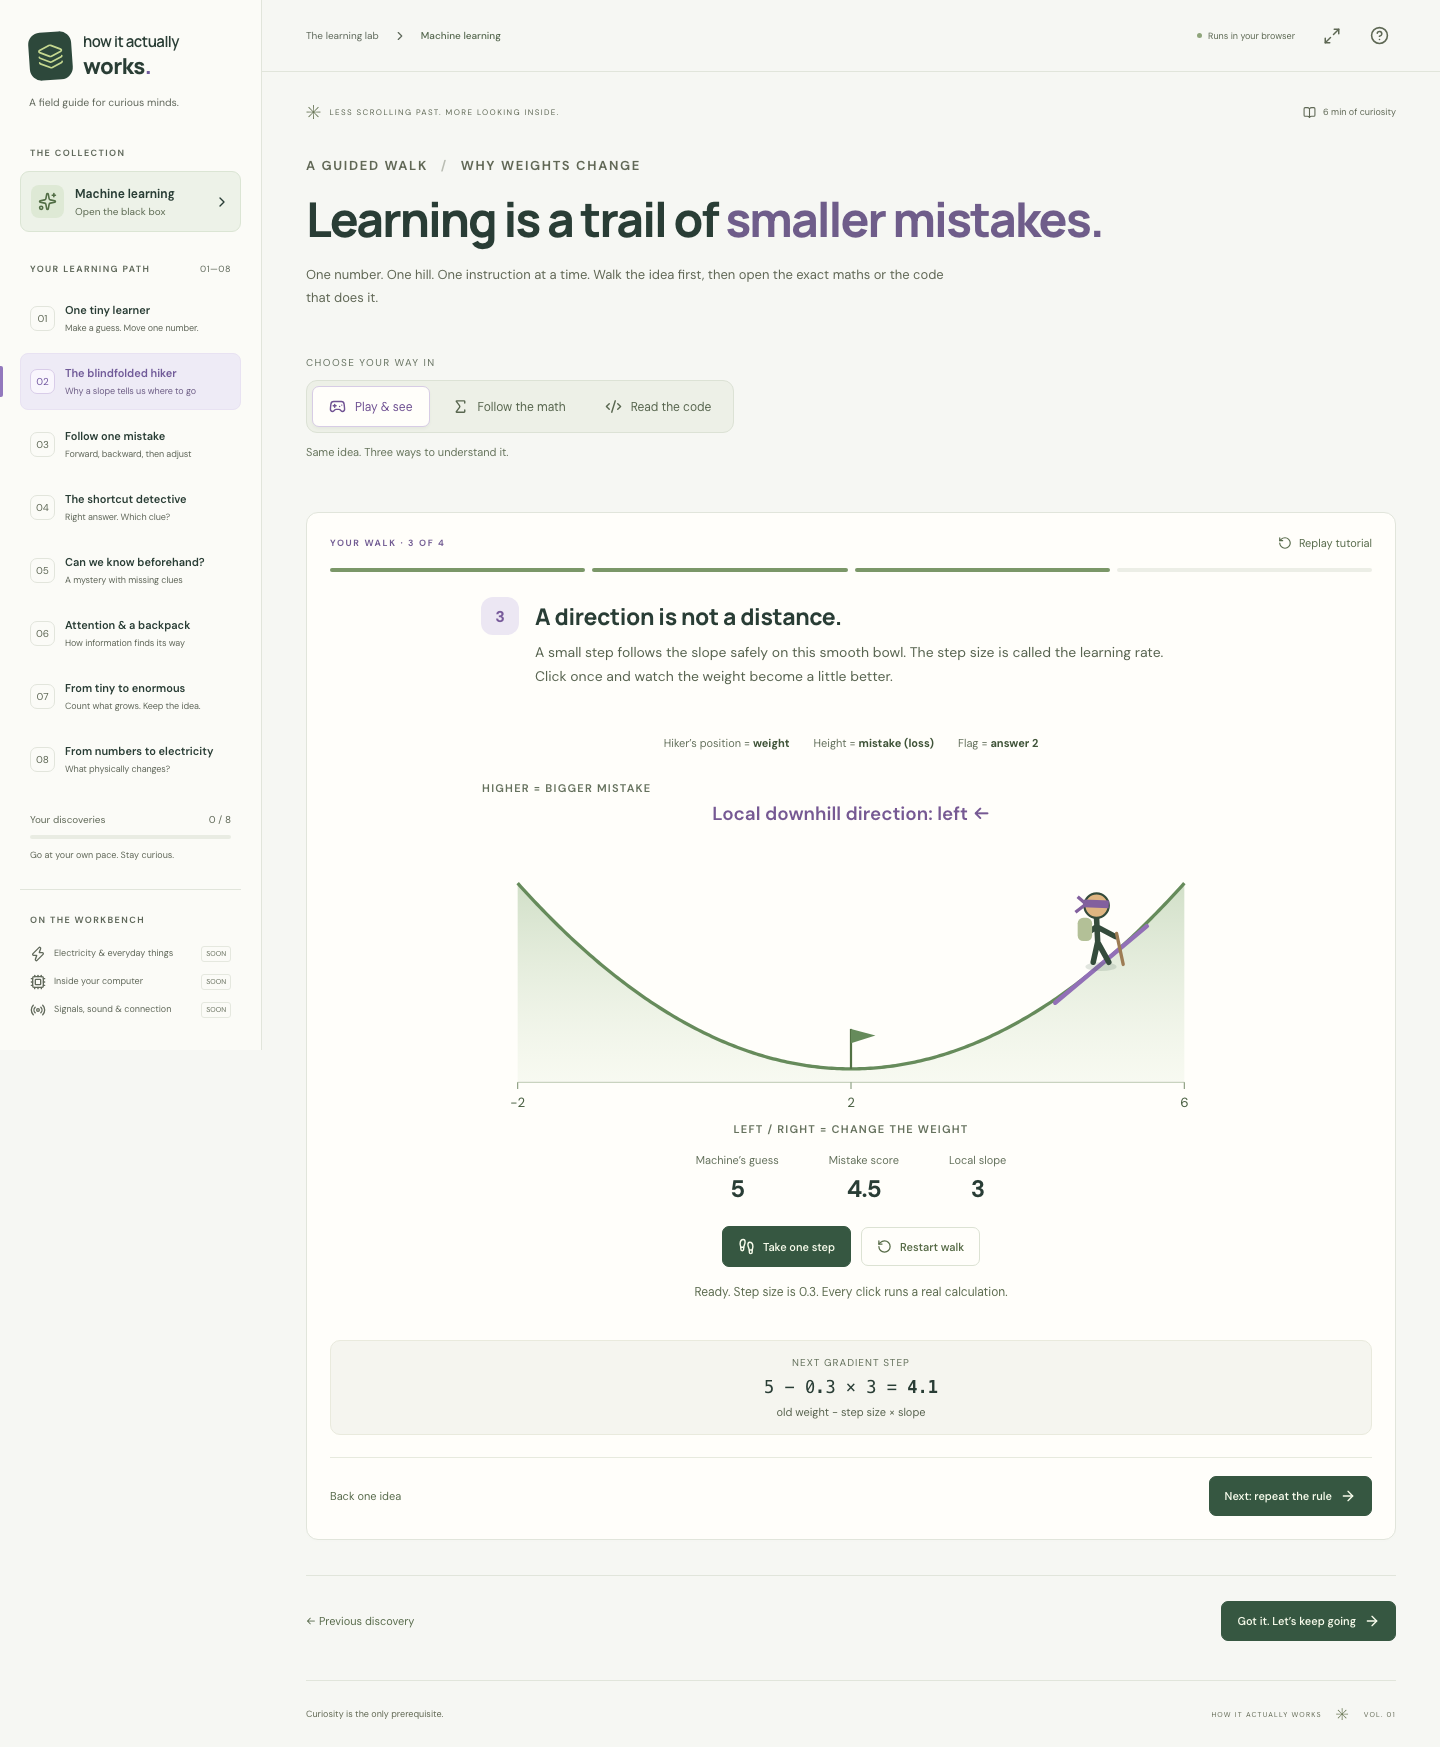
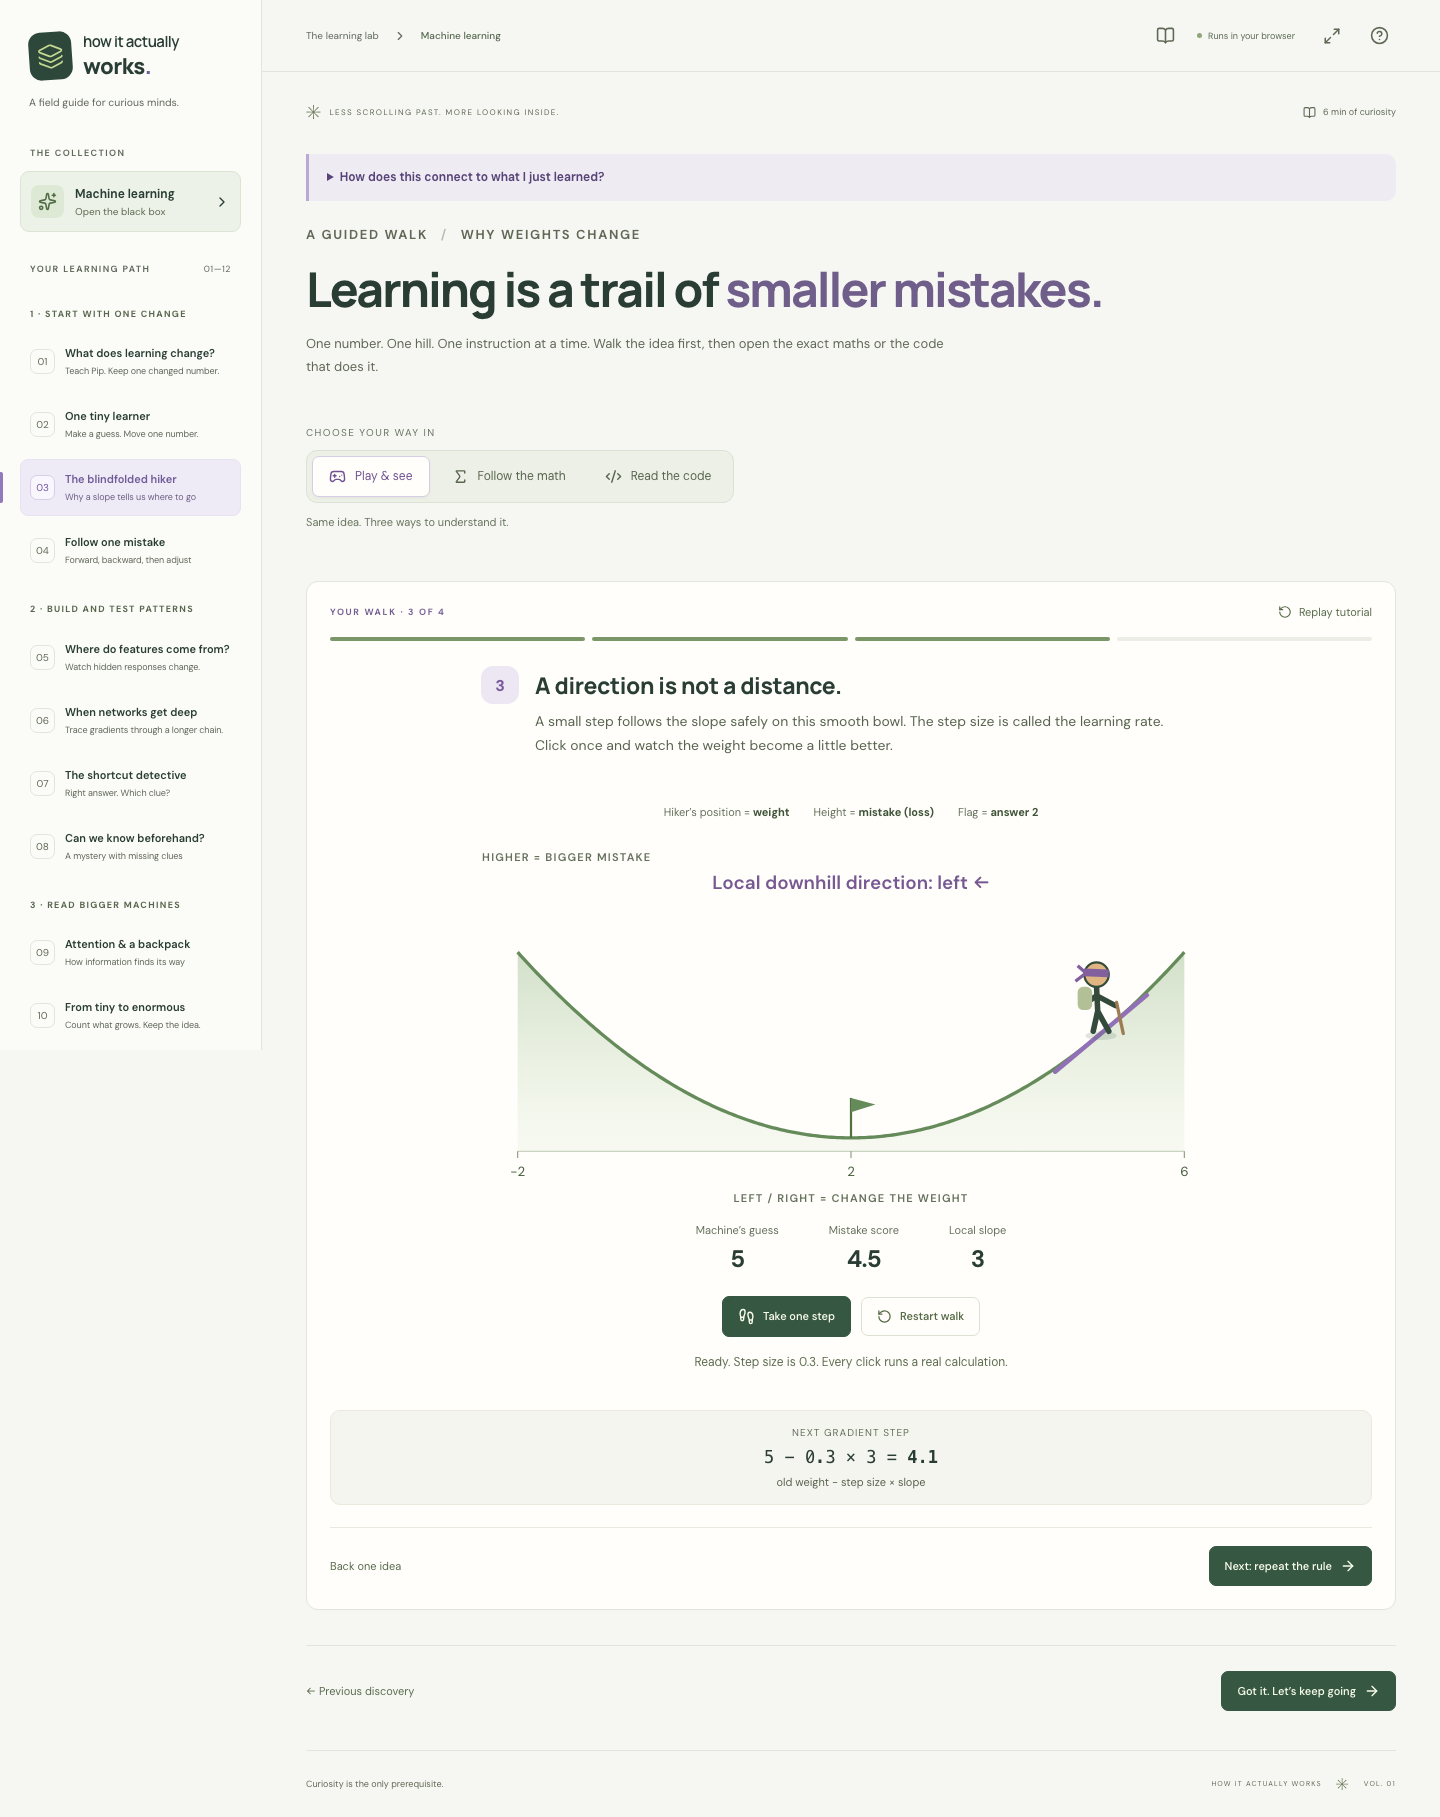
Connect the twelve-lesson curriculum and document the path to research papers

diff --git a/tests/research-paper.spec.ts b/tests/research-paper.spec.ts
@@ -21,11 +21,15 @@ test('the paper route links shifted text targets, causal context, loss, and lear
   await expect(page.getByTestId('paper-token-loss')).toContainText('0.223');
   await page.getByRole('button', { name: 'Next stop', exact: true }).click();
   await page.getByRole('button', { name: 'Only today’s attention shares', exact: true }).click();
-  await expect(page.locator('.paper-story .paper-question')).toContainText('underlying stored parameters');
+  await expect(page.locator('.paper-story .paper-question')).toContainText(
+    'underlying stored parameters',
+  );
   await page
     .getByRole('button', { name: 'The stored lookup and weight tables', exact: true })
     .click();
-  await expect(page.locator('.paper-story .paper-question')).toContainText('Yes. The stored parameters persist');
+  await expect(page.locator('.paper-story .paper-question')).toContainText(
+    'Yes. The stored parameters persist',
+  );
 });
 
 test('a blueprint rejects broken shapes and counts complete configurations instead of guessing performance', async ({

diff --git a/src/components/TinyLearner.tsx b/src/components/TinyLearner.tsx
@@ -278,7 +278,7 @@ export default function TinyLearner({ onContinue }: { onContinue: () => void }) 
       <header className="lesson-heading tiny-heading">
         <div className="tiny-heading-top">
           <p className="eyebrow">
-            EXPERIMENT 01 <span> / </span> START SMALL
+            EXPERIMENT 02 <span> / </span> START SMALL
           </p>
           <span className="tiny-duration">No experience needed</span>
         </div>

diff --git a/src/App.tsx b/src/App.tsx
@@ -208,6 +208,9 @@ export default function App() {
   useEffect(() => {
     document.title = `${chapters[chapter].title} · How it actually works`;
     window.scrollTo({ top: 0, behavior: 'instant' });
+    document
+      .querySelector('.chapter-link[aria-current="step"]')
+      ?.scrollIntoView({ block: 'nearest', behavior: 'instant' });
   }, [chapter]);
   useEffect(() => {
     if (sourcesOpen) dialog.current?.showModal();

diff --git a/src/components/PhysicalJourney.tsx b/src/components/PhysicalJourney.tsx
@@ -89,7 +89,7 @@ console.log({ weight, loss, gradient, idealNext, stored: nextRaw / scale, bits }
   return (
     <div className="physical-lesson">
       <header className="lesson-heading">
-        <p className="eyebrow">EXPERIMENT 08 / FOLLOW THE ELECTRICITY</p>
+        <p className="eyebrow">EXPERIMENT 11 / FOLLOW THE ELECTRICITY</p>
         <h1>
           How does a weight become <em>electricity?</em>
         </h1>

diff --git a/src/components/BackpropJourney.tsx b/src/components/BackpropJourney.tsx
@@ -118,7 +118,7 @@ export default function BackpropJourney() {
     <div className="backprop-journey">
       <header className="lesson-heading">
         <p className="eyebrow">
-          EXPERIMENT 03 <span> / </span> FOLLOW ONE MISTAKE
+          EXPERIMENT 04 <span> / </span> FOLLOW ONE MISTAKE
         </p>
         <h1>
           A network is a <em>chain of effects.</em>

diff --git a/src/components/PredictionJourney.tsx b/src/components/PredictionJourney.tsx
@@ -15,7 +15,7 @@ export default function PredictionJourney() {
     <div className="prediction-journey">
       <header className="lesson-heading">
         <p className="eyebrow">
-          EXPERIMENT 05 <span> / </span> THE MISSING CLUE
+          EXPERIMENT 08 <span> / </span> THE MISSING CLUE
         </p>
         <h1>
           Can you predict <em>the hidden rule?</em>

diff --git a/src/components/BeforeTraining.tsx b/src/components/BeforeTraining.tsx
@@ -50,7 +50,7 @@ export default function BeforeTraining() {
     <div className="theory-lesson">
       <header className="lesson-heading">
         <p className="eyebrow">
-          EXPERIMENT 05 <span> / </span> THE PREDICTION PUZZLE
+          EXPERIMENT 08 <span> / </span> THE PREDICTION PUZZLE
         </p>
         <h1>
           Can we know <em>before we train?</em>

diff --git a/src/components/ArchitectureJourney.tsx b/src/components/ArchitectureJourney.tsx
@@ -390,7 +390,7 @@ export default function ArchitectureJourney() {
     <div className="architecture-journey">
       <header className="lesson-heading">
         <p className="eyebrow">
-          EXPERIMENT 06 <span> / </span> ATTENTION & MEMORY
+          EXPERIMENT 09 <span> / </span> ATTENTION & MEMORY
         </p>
         <h1>
           How does “it”

diff --git a/src/components/ShortcutJourney.tsx b/src/components/ShortcutJourney.tsx
@@ -65,7 +65,7 @@ export default function ShortcutJourney() {
     <div className="shortcut-journey">
       <header className="lesson-heading">
         <p className="eyebrow">
-          EXPERIMENT 04 <span> / </span> THE SHORTCUT DETECTIVE
+          EXPERIMENT 07 <span> / </span> THE SHORTCUT DETECTIVE
         </p>
         <h1>
           Right answer.

diff --git a/src/components/ScaleLesson.tsx b/src/components/ScaleLesson.tsx
@@ -89,7 +89,7 @@ export default function ScaleLesson() {
     <div className={`theory-lesson scale-${mode}`}>
       <header className="lesson-heading">
         <p className="eyebrow">
-          EXPERIMENT 07 <span> / </span> CHANGE THE SCALE
+          EXPERIMENT 10 <span> / </span> CHANGE THE SCALE
         </p>
         <h1>
           More weights.

diff --git a/src/components/ShortcutLab.tsx b/src/components/ShortcutLab.tsx
@@ -92,7 +92,7 @@ export default function ShortcutLab() {
     <div className="shortcut-lesson">
       <div className="lesson-heading">
         <div className="eyebrow">
-          EXPERIMENT 04 <span> / </span> QUESTION THE PATTERN
+          EXPERIMENT 07 <span> / </span> QUESTION THE PATTERN
         </div>
         <h1>
           Right answer.

diff --git a/src/components/NetworkLab.tsx b/src/components/NetworkLab.tsx
@@ -42,7 +42,7 @@ export default function NetworkLab() {
     <>
       <div className="lesson-heading">
         <div className="eyebrow">
-          EXPERIMENT 03 <span> / </span> CONNECT THE DOTS
+          EXPERIMENT 04 <span> / </span> CONNECT THE DOTS
         </div>
         <h1>
           A network comes <em>alive.</em>
